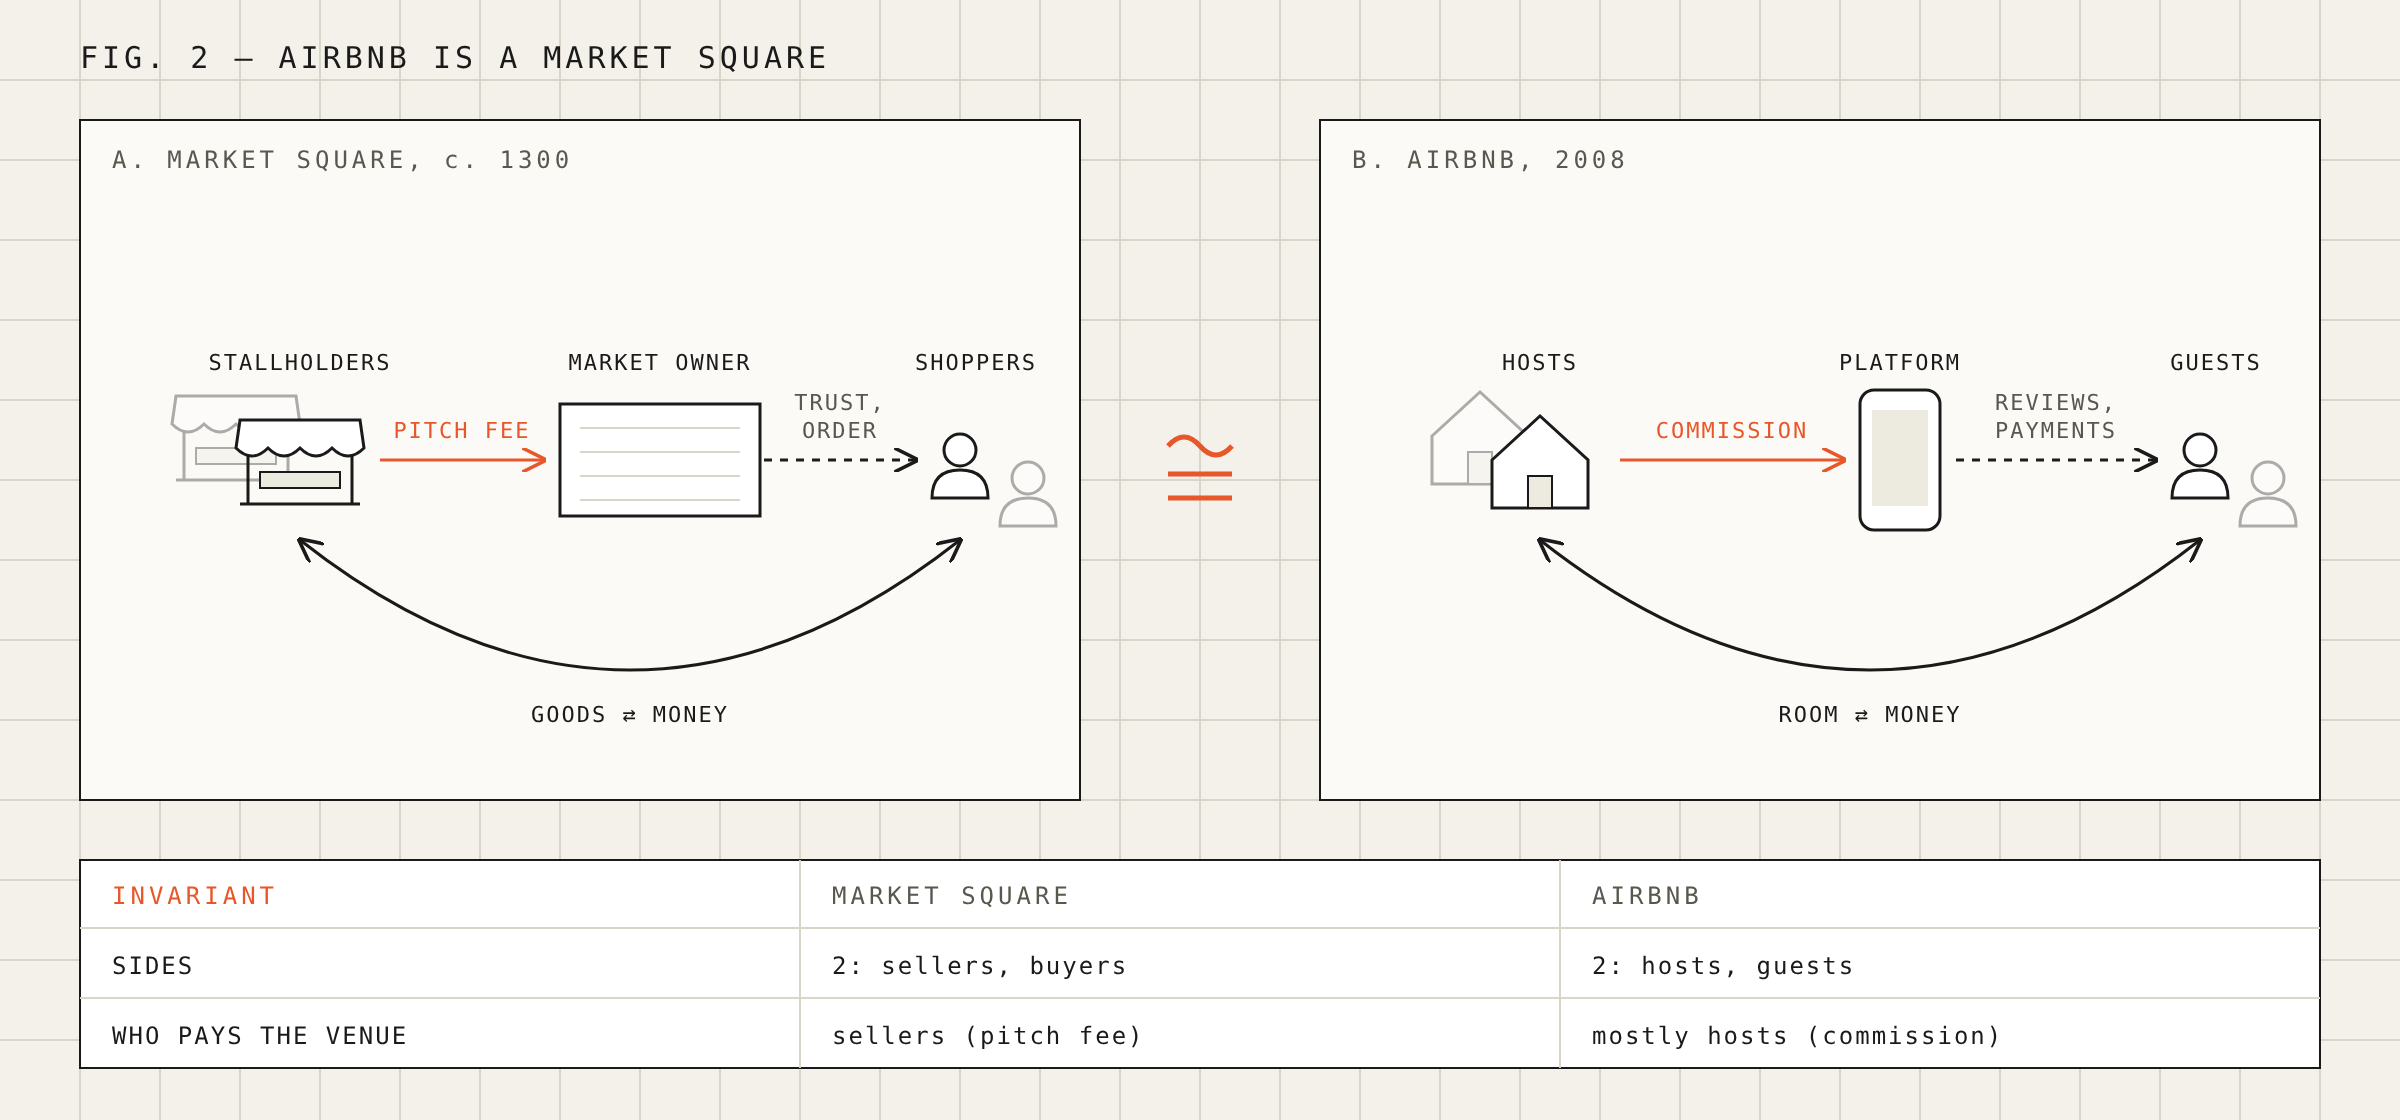
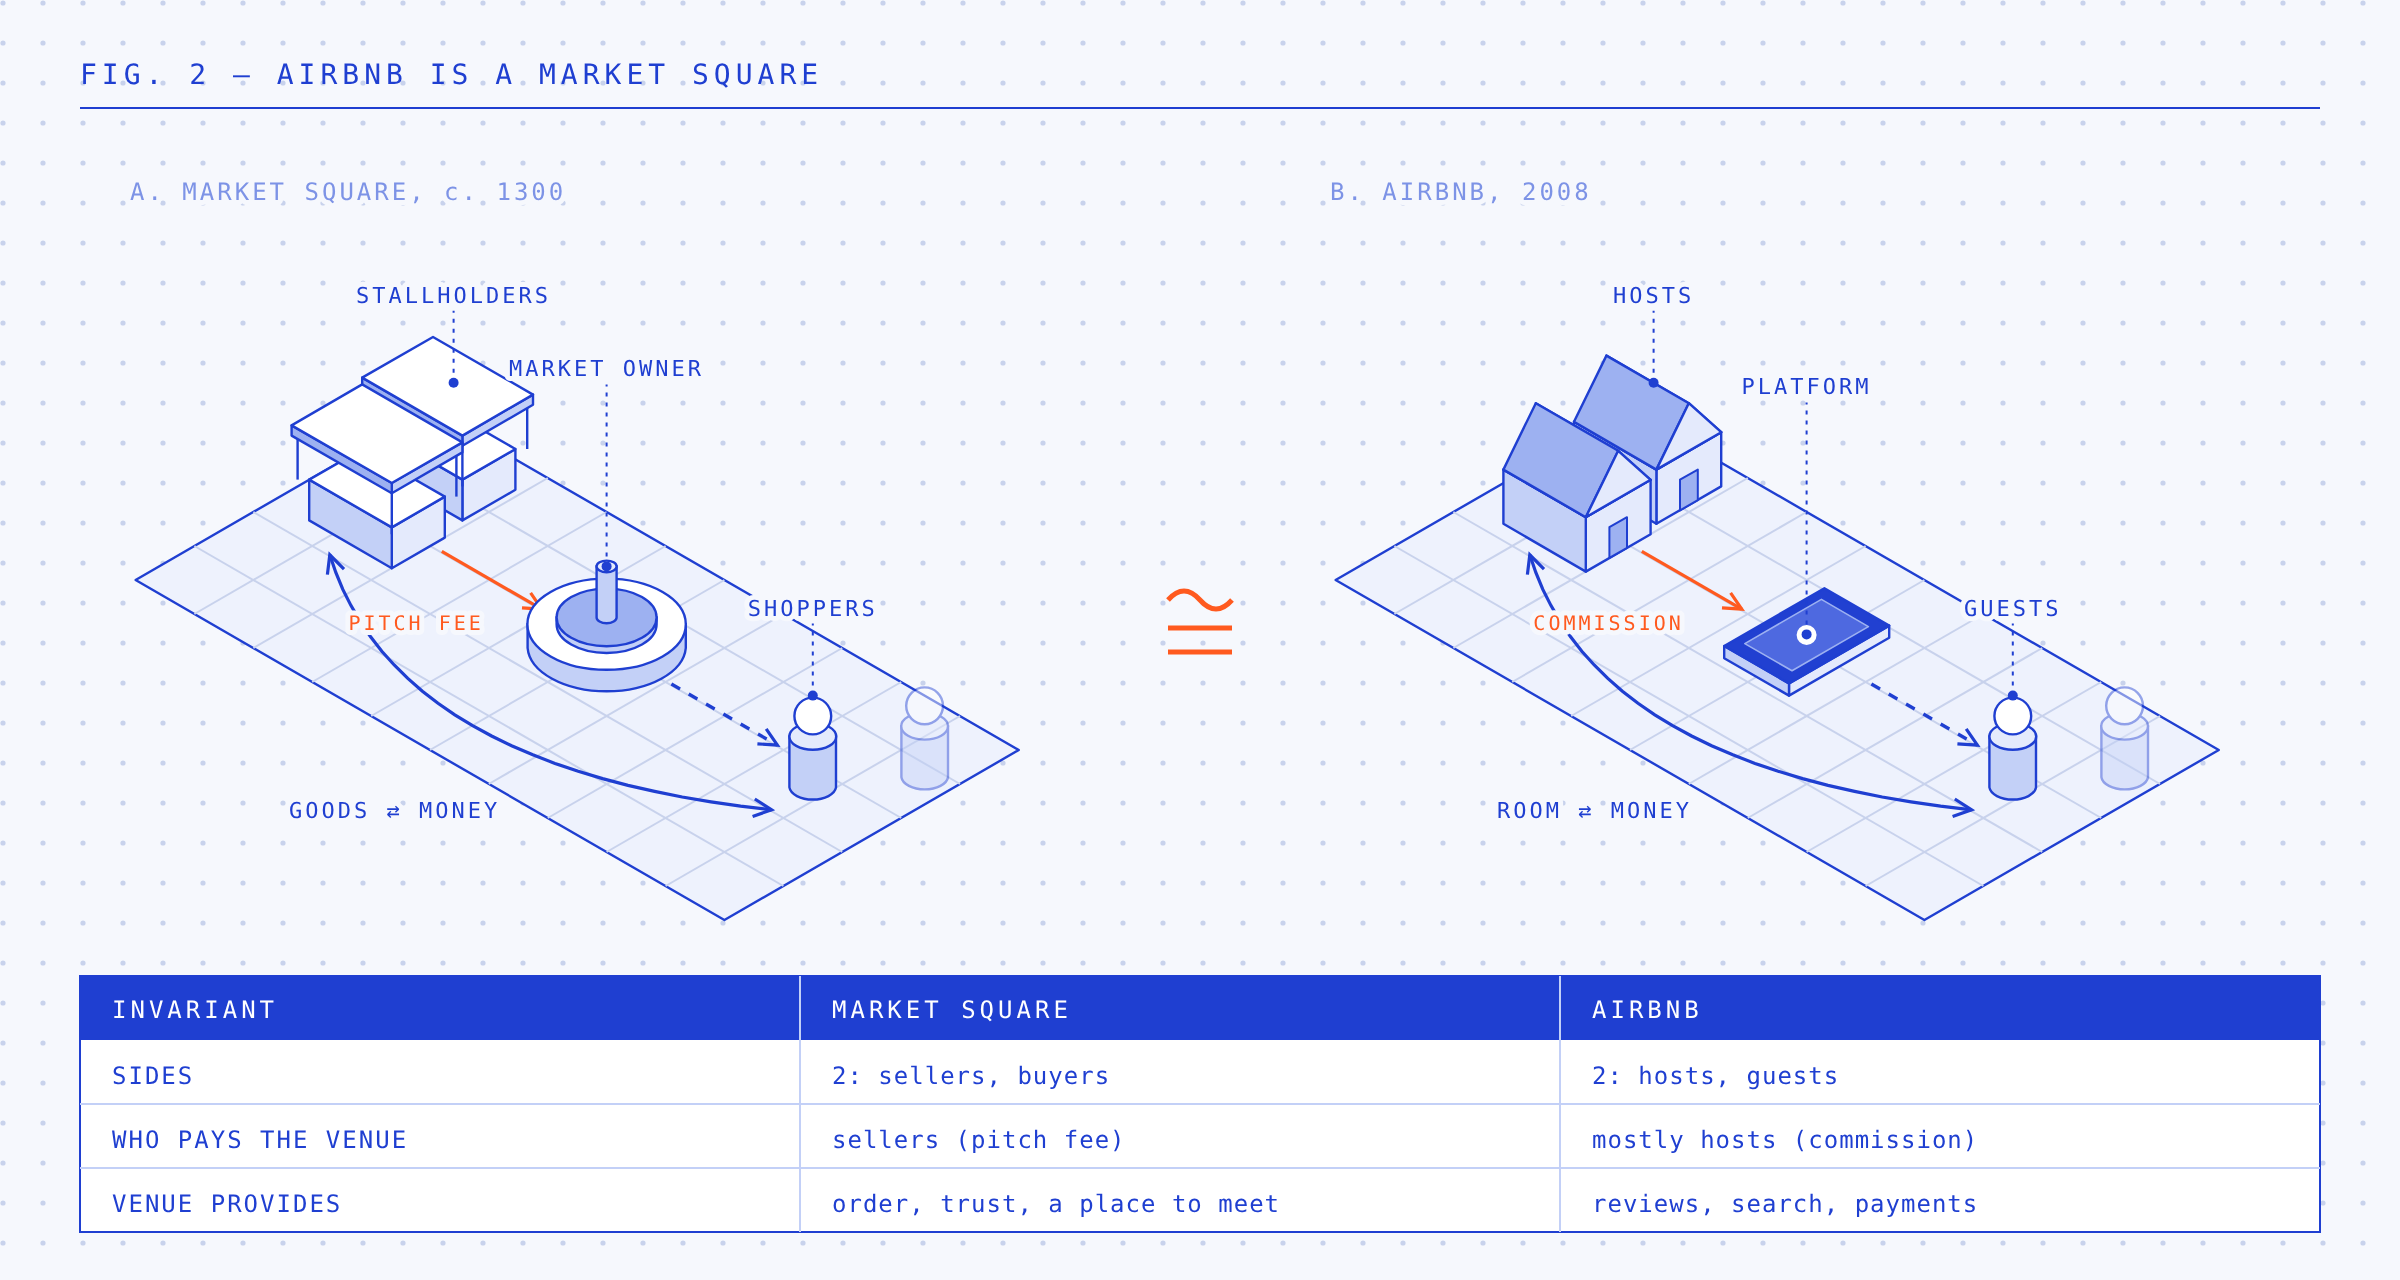
Mug/doughnut post: featured, figures moved up, blue isometric redraw
Claude-Session: https://claude.ai/code/session_01KA2bCro2NPR17G3UfG8hy5

diff --git a/The Mug, the Doughnut and the DAO.md b/The Mug, the Doughnut and the DAO.md
@@ -5,22 +5,25 @@ title: "The Mug, the Doughnut and the DAO"
 description: "A topologist can't tell a coffee mug from a doughnut, and on the same test most \"new\" institutions turn out to be old ones, stretched."
 image: /images/the-mug-the-doughnut-and-the-dao/mug-to-doughnut.png
 permalink: /the-mug-the-doughnut-and-the-dao
+featured: true
 tags: [post]
 ---
 
 # The Mug, the Doughnut and the DAO
 
-*A topologist can't tell a coffee mug from a doughnut, and on the same test most "new" institutions turn out to be old ones, stretched.*
+![A coffee mug stretched and squashed into a doughnut: the one hole survives throughout](/images/the-mug-the-doughnut-and-the-dao/mug-to-doughnut.svg)
+
+*Fig. 1. A coffee mug and a doughnut are the same thing to a topologist: stretch and squash one into the other without tearing or gluing, and the one hole survives throughout.*
 
 Take a coffee mug made of clay. Deform it continuously (stretch, squash, bend, but never tear or glue) and you get a ring. The two are *homeomorphic*: the same object as far as topology is concerned. What survives every such deformation are the *invariants*, and for a surface the main one is the number of holes, the genus.
 
 The classification theorem for surfaces makes this striking. Every closed orientable surface is homeomorphic to a sphere with some number of handles. A cube, a teapot and a human head (ignoring the nostrils) are all spheres; a mug is a torus; a pretzel is genus three. Infinite variety of shape, a very short list of kinds. (One dimension up, the Poincaré conjecture says the same for 3-manifolds: no holes, and you have a sphere.)
 
-![A coffee mug stretched and squashed into a doughnut: the one hole survives throughout](/images/the-mug-the-doughnut-and-the-dao/mug-to-doughnut.svg)
-
-*Fig. 1. A coffee mug and a doughnut are the same thing to a topologist: stretch and squash one into the other without tearing or gluing, and the one hole survives throughout.*
-
 My claim: institutional design works the same way. There are a small number of institutional *kinds*. Most designs that look new are continuous deformations of one of them: different size, different shape, new technology, same topology. Not seeing this wastes a lot of effort, and leads people to claim innovation where there isn't any.
+
+![Airbnb drawn as a medieval market square: the same two sides, the same venue, the same fee](/images/the-mug-the-doughnut-and-the-dao/airbnb-market-square.svg)
+
+*Fig. 2. Airbnb is a market square. Same two sides, same venue in the middle, same fee from the sellers; only the technology has changed.*
 
 ## Invariants for institutions
 
@@ -58,11 +61,7 @@ Seeing it this way explains things that otherwise look like new phenomena:
 
 Marketplaces come in only a few kinds: one-sided (a shop sells to you), two-sided (a venue brings buyers and sellers together) and three-sided (a third group, usually advertisers, pays to reach the other two, as with Google above).
 
-Uber, Airbnb and eBay are two-sided markets. So is a medieval fair, a fish market or a stock exchange. The venue brings buyers and sellers together, charges the sellers for a pitch, and keeps enough order that people trust the place. eBay is the market square online, Airbnb is it for spare rooms, Uber for car rides (with the old taxi rank and dispatch office as near relatives). The technology and the scale are new. The structure is not, and neither are the problems: who sets the stall fees, what happens when there is only one market in town, and the position of the people who work in it. I made this argument at length in [[ubernomics|Ubernomics]], and [Platformnomics](https://openrevolution.net/platformnomics) in Open Revolution has the long version, focused on two-sided platforms.
-
-![Airbnb drawn as a medieval market square: the same two sides, the same venue, the same fee](/images/the-mug-the-doughnut-and-the-dao/airbnb-market-square.svg)
-
-*Fig. 2. Airbnb is a market square. Same two sides, same venue in the middle, same fee from the sellers; only the technology has changed.*
+Uber, Airbnb and eBay are two-sided markets (Fig. 2). So is a medieval fair, a fish market or a stock exchange. The venue brings buyers and sellers together, charges the sellers for a pitch, and keeps enough order that people trust the place. eBay is the market square online, Airbnb is it for spare rooms, Uber for car rides (with the old taxi rank and dispatch office as near relatives). The technology and the scale are new. The structure is not, and neither are the problems: who sets the stall fees, what happens when there is only one market in town, and the position of the people who work in it. I made this argument at length in [[ubernomics|Ubernomics]], and [Platformnomics](https://openrevolution.net/platformnomics) in Open Revolution has the long version, focused on two-sided platforms.
 
 ## Funding information: a short, closed list
 
